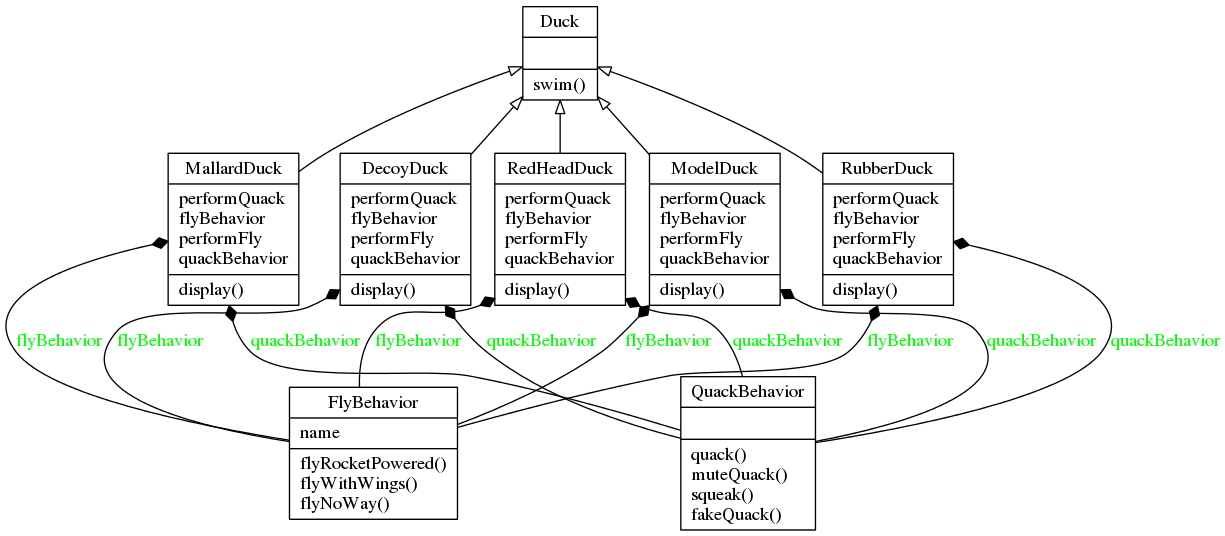
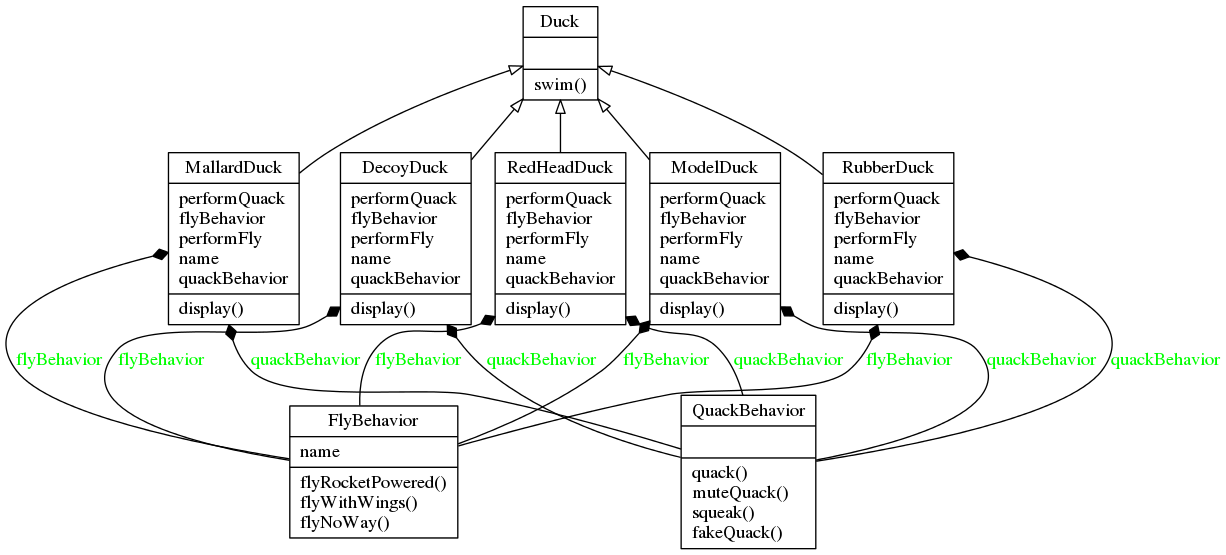
composition

diff --git a/python-patterns/src/behavioral/strategy_headfirst.py b/python-patterns/src/behavioral/strategy_headfirst.py
@@ -23,6 +23,7 @@ class Duck:
         print("All ducks float, even decoys!") 
 class DecoyDuck(Duck):
     def __init__(self,name):
+        self.name = name
         self.flyBehavior = FlyBehavior(name)
         self.quackBehavior = QuackBehavior()
         self.performFly = self.flyBehavior.flyWithWings
@@ -31,6 +32,7 @@ class DecoyDuck(Duck):
         print(self.name + " is a duck Decoy")
 class MallardDuck(Duck):
     def __init__(self,name):
+        self.name = name
         self.flyBehavior = FlyBehavior(name)
         self.quackBehavior = QuackBehavior()
         self.performFly = self.flyBehavior.flyWithWings
@@ -39,6 +41,7 @@ class MallardDuck(Duck):
         print(self.name + " is a real Mallard duck")
 class ModelDuck(Duck):
     def __init__(self,name):
+        self.name = name
         self.flyBehavior = FlyBehavior(name)
         self.quackBehavior = QuackBehavior()
         self.performFly = self.flyBehavior.flyNoWay 
@@ -47,6 +50,7 @@ class ModelDuck(Duck):
         print(self.name + " is a model duck")
 class RedHeadDuck(Duck):
     def __init__(self,name):
+        self.name = name
         self.flyBehavior = FlyBehavior(name)
         self.quackBehavior = QuackBehavior()
         self.performFly = self.flyBehavior.flyWithWings
@@ -55,6 +59,7 @@ class RedHeadDuck(Duck):
         print(self.name + " is a real Red Headed duck")     
 class RubberDuck(Duck):
     def __init__(self,name):
+        self.name = name
         self.flyBehavior = FlyBehavior(name)
         self.quackBehavior = QuackBehavior()
         self.performFly = self.flyBehavior.flyNoWay 
@@ -77,6 +82,8 @@ if __name__ == '__main__':
     
     model2 = ModelDuck("model2")
     model2.performFly()  # 他のインスタンスのメソッドは置換されない。
+    
+    model2.display()
     
 
     
